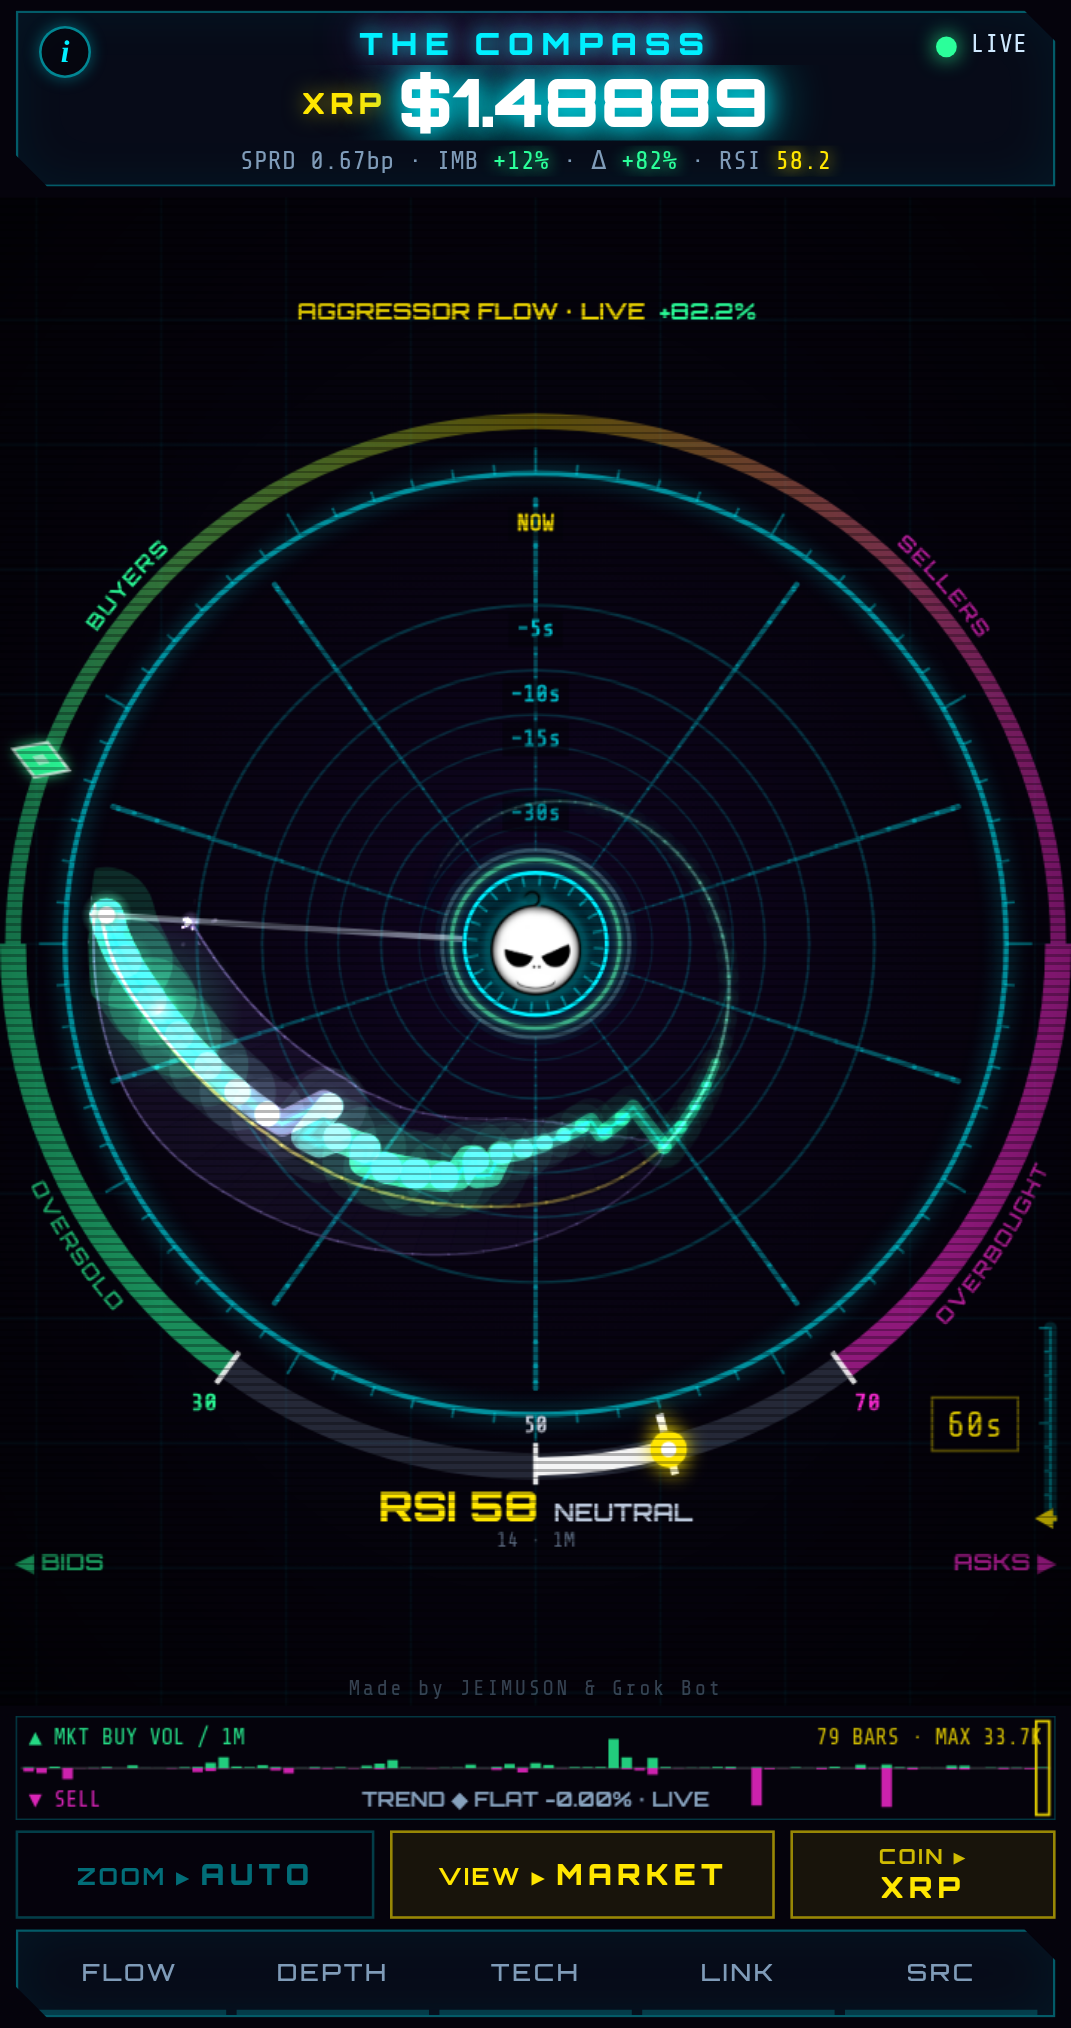
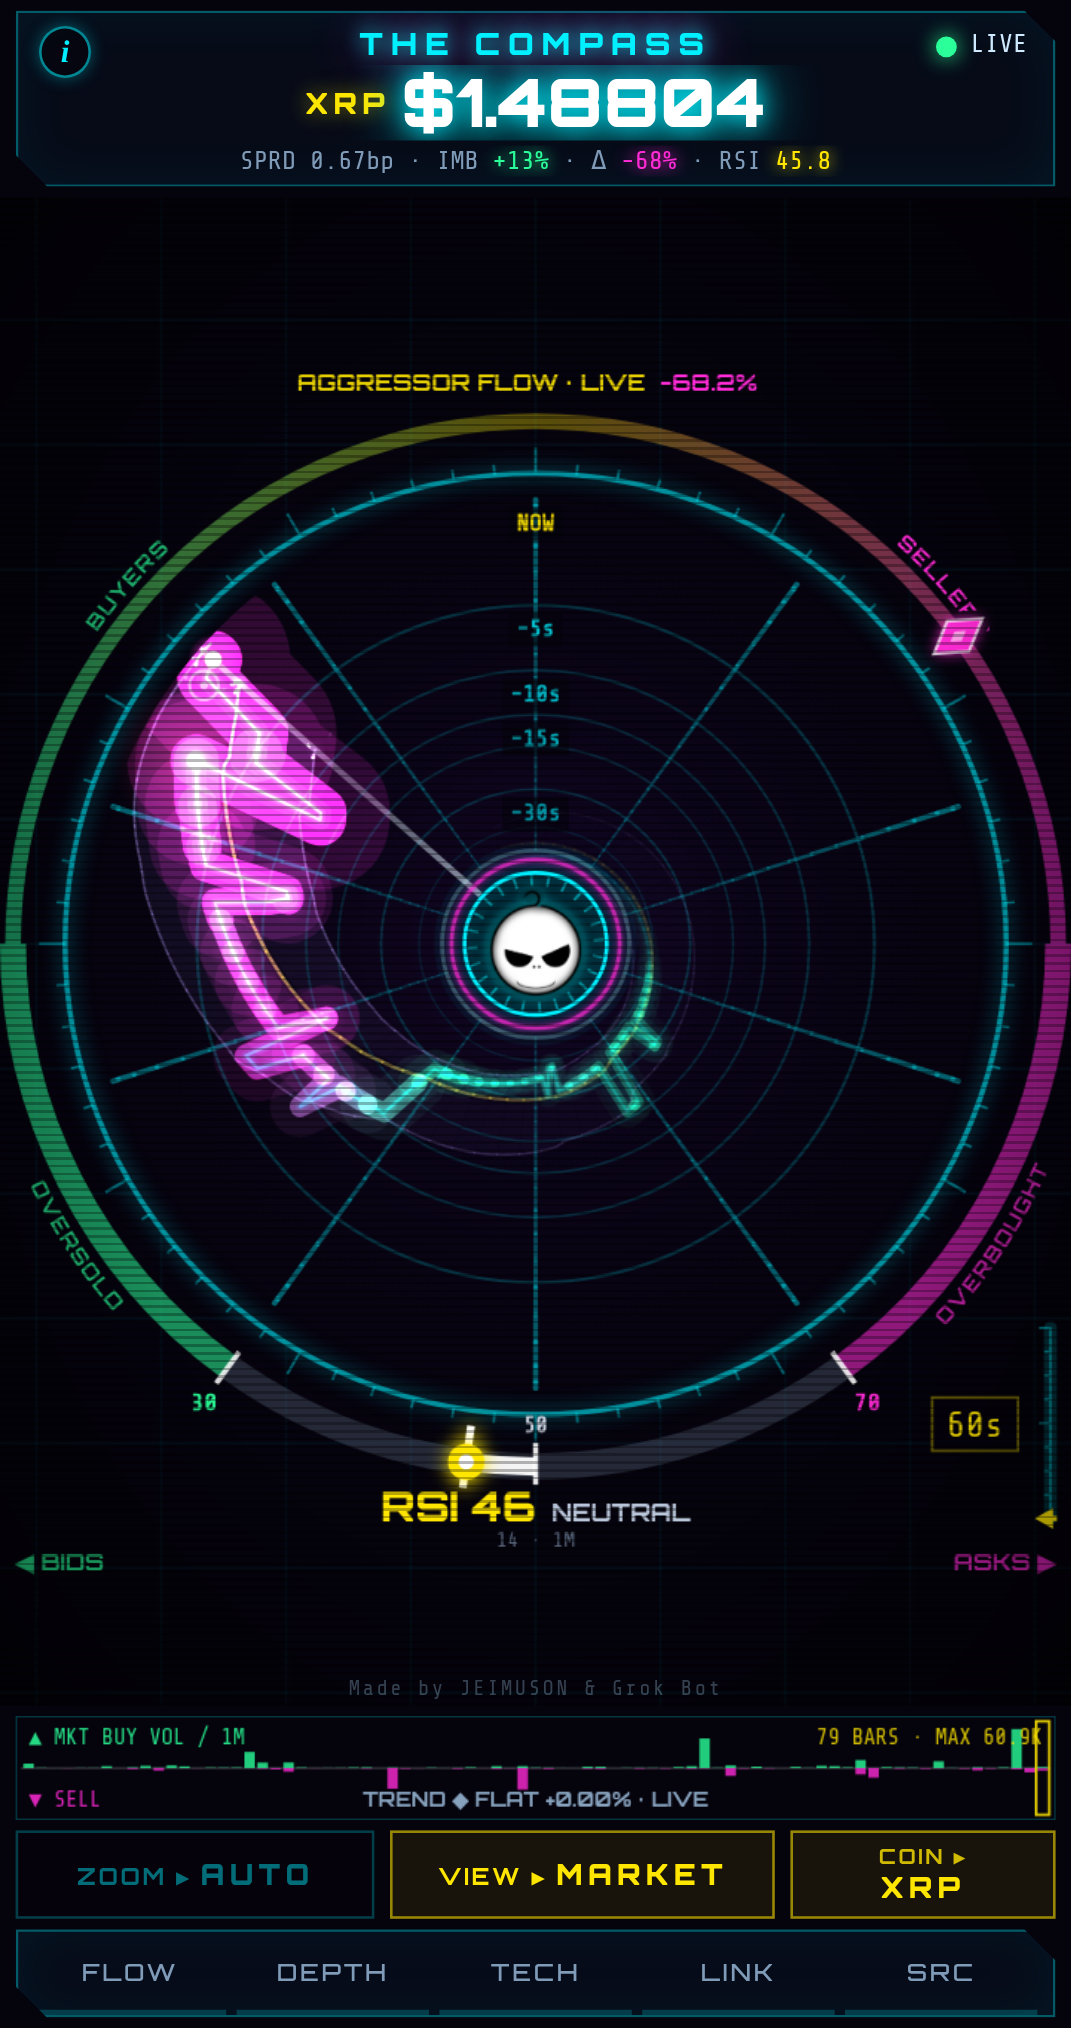
Build 20261003-2045: aggressor diamond centred exactly on the gauge arc

diff --git a/index.html b/index.html
@@ -3,7 +3,7 @@
 <head>
 <meta charset="utf-8">
 <meta http-equiv="Cache-Control" content="no-cache, no-store, must-revalidate"><meta http-equiv="Pragma" content="no-cache"><meta http-equiv="Expires" content="0">
-<script>window.OFC_BUILD='20261003-2025';try{localStorage.removeItem('ofc.trail')}catch(e){};(function(){try{if(!/^https?:/.test(location.protocol))return;fetch(location.pathname+'?_='+Date.now(),{cache:'no-store'}).then(r=>r.text()).then(t=>{const m=t.match(/OFC_BUILD='([^']+)'/);if(m&&m[1]!==window.OFC_BUILD&&sessionStorage.getItem('ofcB')!==m[1]){sessionStorage.setItem('ofcB',m[1]);location.replace(location.pathname+'?v='+m[1]+location.hash);}}).catch(()=>{});}catch(e){}})();</script>
+<script>window.OFC_BUILD='20261003-2045';try{localStorage.removeItem('ofc.trail')}catch(e){};(function(){try{if(!/^https?:/.test(location.protocol))return;fetch(location.pathname+'?_='+Date.now(),{cache:'no-store'}).then(r=>r.text()).then(t=>{const m=t.match(/OFC_BUILD='([^']+)'/);if(m&&m[1]!==window.OFC_BUILD&&sessionStorage.getItem('ofcB')!==m[1]){sessionStorage.setItem('ofcB',m[1]);location.replace(location.pathname+'?v='+m[1]+location.hash);}}).catch(()=>{});}catch(e){}})();</script>
 <script>/* viewport height guard: Android standalone PWAs can report a stale/too-tall 100dvh right after a reload (e.g. coin switch) -> size from the smallest sane measurement and keep re-checking */
 (function(){var R=document.documentElement;function m(){var v=window.visualViewport,c=[window.innerHeight,R.clientHeight];if(v&&v.height>0)c.push(v.height);c=c.filter(function(x){return x>100;});if(!c.length)return;
   var h=Math.round(Math.min.apply(null,c))+'px';if(R.style.getPropertyValue('--apph')!==h){R.style.setProperty('--apph',h);try{window.dispatchEvent(new Event('ofc-vh'));}catch(e){}}}
@@ -1389,23 +1389,22 @@ function drawNeedle(now){
   ctx.font=`700 ${WIDE?10:9}px Orbitron,sans-serif`;ctx.textAlign='center';
   ctx.font=`700 ${WIDE?10:9}px Orbitron,sans-serif`;ctx.textAlign='center';
   
-  // aggressor-flow marker: diamond only (no hub->ring line), riding just outside the big outer (gauge) circle; same angle/spring/colour as the old line tip
-  const a=-Math.PI/2+needle, HL=WIDE?10.5:11.5, HW=HL*0.62, n=a+Math.PI/2, ex=Math.abs(Math.cos(a))*HL+Math.abs(Math.cos(n))*HW, ey=Math.abs(Math.sin(a))*HL+Math.abs(Math.sin(n))*HW;
-  // radius: just outside the gauge circle; pulled inward only where it would leave the canvas (phone sides at extreme flow) or touch the zoom pill
-  let DR=GR+4+HL;{const Zg=(typeof zbarGeom==='function')?zbarGeom():null,P=Zg&&Zg.pw?Zg:null,bad=r=>{const x=CX+Math.cos(a)*r,y=CY+Math.sin(a)*r;
-      if(x-ex<2||x+ex>W-2||y-ey<1)return true;return !!P&&x+ex>P.px-4&&x-ex<P.px+P.pw+4&&y+ey>P.py-4&&y-ey<P.py+P.ph+4;};
-    for(let k=0;k<40&&bad(DR)&&DR>GR-HL-8;k++)DR-=1.5;}
-  const tipX=CX+Math.cos(a)*DR, tipY=CY+Math.sin(a)*DR;
+  // aggressor-flow marker: diamond only (no hub->ring line), centred ON the coloured gauge arc (radius GR) and riding along it; same angle/spring/colour as the old line tip
+  // centre = exactly on the arc (centre CX,CY, radius GR) at every angle, no offsets. Near the canvas side on narrow phones (extreme flow) the diamond's
+  // outer half is shortened instead (radially squashed, centre unchanged) so it never runs off-screen.
+  const a=-Math.PI/2+needle, n=a+Math.PI/2, ca=Math.cos(a), sa=Math.sin(a), HW=(WIDE?10.5:11.5)*0.62, DR=GR, tipX=CX+ca*DR, tipY=CY+sa*DR;
+  const room=Math.abs(ca)>0.02?((ca>0?W-2-tipX:tipX-2)-Math.abs(sa)*HW)/Math.abs(ca):1e9, HL=Math.max((WIDE?10.5:11.5)*0.55,Math.min(WIDE?10.5:11.5,room));
+  const ex=Math.abs(ca)*HL+Math.abs(Math.cos(n))*HW, ey=Math.abs(sa)*HL+Math.abs(Math.sin(n))*HW;
+  window.__ofcDia={DR,GR,x:+tipX.toFixed(2),y:+tipY.toFixed(2),cx:CX,cy:CY,HL:+HL.toFixed(2),W};
   const col=f.r>0.05?COL.bid:f.r<-0.05?COL.ask:COL.yl;
   const dia=(k)=>{ctx.beginPath();ctx.moveTo(tipX+Math.cos(a)*HL*k,tipY+Math.sin(a)*HL*k);ctx.lineTo(tipX+Math.cos(n)*HW*k,tipY+Math.sin(n)*HW*k);
     ctx.lineTo(tipX-Math.cos(a)*HL*k,tipY-Math.sin(a)*HL*k);ctx.lineTo(tipX-Math.cos(n)*HW*k,tipY-Math.sin(n)*HW*k);ctx.closePath();};
-  // title: drawn first, with a small gap cut around the diamond so the marker never sits on top of the text
-  {const bx=ex+4, by=ey+4, TY=CY-GR-12-(CY-GR>=60?2*HL+4:0);   // room above the dial (phone): lift the title clear of the diamond's path; tight desktop top: cut a gap instead
-    ctx.save();ctx.beginPath();ctx.rect(0,0,W,H);{const k=1+4/HW;ctx.moveTo(tipX+Math.cos(a)*HL*k,tipY+Math.sin(a)*HL*k);ctx.lineTo(tipX+Math.cos(n)*HW*k,tipY+Math.sin(n)*HW*k);ctx.lineTo(tipX-Math.cos(a)*HL*k,tipY-Math.sin(a)*HL*k);ctx.lineTo(tipX-Math.cos(n)*HW*k,tipY-Math.sin(n)*HW*k);ctx.closePath();}ctx.clip('evenodd');   // gap = diamond outline + ~4 px
-  {const f=flow(winSec).r;for(const L of ringLabels()){if(L.k==='buy')drawRingLabel(L,COL.bid,f>0.15,1);else if(L.k==='sell')drawRingLabel(L,COL.ask,f<-0.15,1);}}   // BUYERS / SELLERS ring labels share the gap
-    ctx.font=`700 ${WIDE?10:9}px Orbitron,sans-serif`;ctx.textAlign='center';
-    ctx.fillStyle='rgba(255,230,0,.9)';ctx.fillText('AGGRESSOR FLOW · '+WL(winSec)+(flow(winSec).cov<0.98?'~':'')+'  ',CX-22,TY);{const f2=flow(winSec);ctx.textAlign='left';ctx.fillStyle=rgba(f2.r>0.05?COL.bid:f2.r<-0.05?COL.ask:COL.yl,1);ctx.fillText((f2.r>=0?'+':'')+(f2.r*100).toFixed(1)+'%',CX-22+ctx.measureText('AGGRESSOR FLOW · '+WL(winSec)+(flow(winSec).cov<0.98?'~':'')+'  ').width/2,TY);ctx.textAlign='center';}
+  // BUYERS / SELLERS labels sit just outside the arc (GR+6), inside the diamond's reach -> small diamond-shaped gap where it passes. Title is clear of it (no gap).
+  {ctx.save();ctx.beginPath();ctx.rect(0,0,W,H);{const k=1+4/HW;ctx.moveTo(tipX+Math.cos(a)*HL*k,tipY+Math.sin(a)*HL*k);ctx.lineTo(tipX+Math.cos(n)*HW*k,tipY+Math.sin(n)*HW*k);ctx.lineTo(tipX-Math.cos(a)*HL*k,tipY-Math.sin(a)*HL*k);ctx.lineTo(tipX-Math.cos(n)*HW*k,tipY-Math.sin(n)*HW*k);ctx.closePath();}ctx.clip('evenodd');
+    {const f=flow(winSec).r;for(const L of ringLabels()){if(L.k==='buy')drawRingLabel(L,COL.bid,f>0.15,1);else if(L.k==='sell')drawRingLabel(L,COL.ask,f<-0.15,1);}}
     ctx.restore();}
+  ctx.font=`700 ${WIDE?10:9}px Orbitron,sans-serif`;ctx.textAlign='center';
+  ctx.fillStyle='rgba(255,230,0,.9)';ctx.fillText('AGGRESSOR FLOW · '+WL(winSec)+(flow(winSec).cov<0.98?'~':'')+'  ',CX-22,CY-GR-12);{const f2=flow(winSec);ctx.textAlign='left';ctx.fillStyle=rgba(f2.r>0.05?COL.bid:f2.r<-0.05?COL.ask:COL.yl,1);ctx.fillText((f2.r>=0?'+':'')+(f2.r*100).toFixed(1)+'%',CX-22+ctx.measureText('AGGRESSOR FLOW · '+WL(winSec)+(flow(winSec).cov<0.98?'~':'')+'  ').width/2,CY-GR-12);ctx.textAlign='center';}
   ctx.save();ctx.shadowColor=rgba(col,1);ctx.shadowBlur=Q>0?22:10;ctx.fillStyle=rgba(col,1);dia(1);ctx.fill();
   if(Q>0){ctx.shadowBlur=9;ctx.globalAlpha=0.7;ctx.fill();ctx.globalAlpha=1;}
   ctx.shadowBlur=0;ctx.lineWidth=1.2;ctx.strokeStyle='rgba(255,255,255,.7)';dia(1);ctx.stroke();   // thin bright rim keeps it crisp on its own
